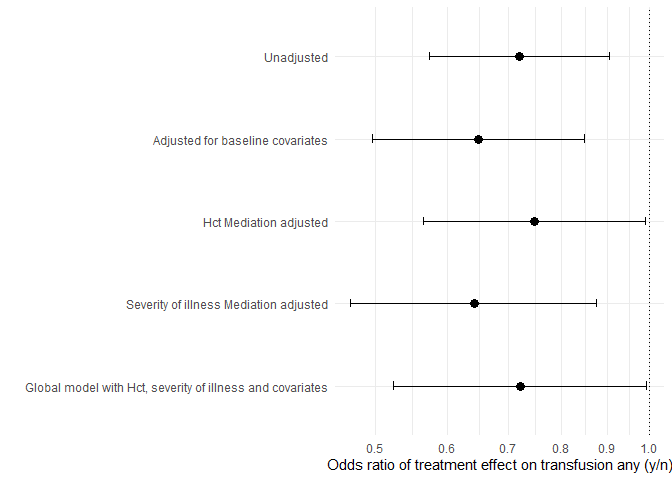
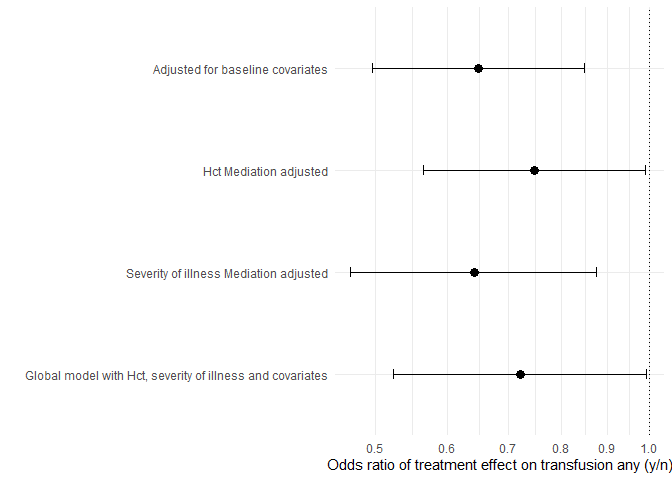
formatting

diff --git a/Analysis_medflex_for_Git2.md b/Analysis_medflex_for_Git2.md
@@ -37,10 +37,10 @@ adjustedfullmodel <- glm(rc_transfusion_titans ~ treatment_cat1+ hct_week1_peak+
 ```
 
 ``` r
-unadjustedmodel <- glm(rc_transfusion_titans ~ treatment_cat1,  family =  binomial("logit"), data = final_df) %>%
-  tbl_regression(exponentiate = TRUE,
-                 show_single_row="treatment_cat1",
-                 include = c("treatment_cat1"))
+#unadjustedmodel <- glm(rc_transfusion_titans ~ treatment_cat1,  family =  binomial("logit"), data = final_df) %>%
+#  tbl_regression(exponentiate = TRUE,
+#                 show_single_row="treatment_cat1",
+#                include = c("treatment_cat1"))
 ```
 
 ``` r
@@ -70,18 +70,16 @@ adjustedfullmodel <- glm(rc_transfusion_titans ~ treatment_cat1+ hct_week1_peak+
 ```
 
 ``` r
-models.a<-tbl_stack(list(unadjustedmodel, 
-                         adjusted_basedlinedmodel, 
+models.a<-tbl_stack(list( adjusted_basedlinedmodel, 
                          adjusted_hct_mediator_model,
                          adjusted_severity_of_illness_mediator_model,
                          adjustedfullmodel))
 
 models.a$table_body %>%
-  mutate(name = case_when(tbl_id1==1 ~ "Unadjusted", 
-                          tbl_id1==2 ~ "Adjusted for baseline covariates" , 
-                          tbl_id1==3 ~ "Hct Mediation adjusted",
-                          tbl_id1==4 ~ "Severity of illness Mediation adjusted",
-                          tbl_id1==5 ~ "Global model with Hct, severity of illness and covariates",) %>%
+  mutate(name = case_when(tbl_id1==1 ~ "Adjusted for baseline covariates" , 
+                          tbl_id1==2 ~ "Hct Mediation adjusted",
+                          tbl_id1==3 ~ "Severity of illness Mediation adjusted",
+                          tbl_id1==4 ~ "Global model with Hct, severity of illness and covariates",) %>%
            as.factor()) %>%
   ggplot(aes(y=fct_reorder(name, -tbl_id1), x=estimate)) +
   geom_point(size=3)+
@@ -284,7 +282,7 @@ impData <- medflex::neImpute(rc_transfusion_titans ~ factor(treatment_cat1) +
                     family = binomial("logit"), nMed = 4, data = final_df1)
 
 
-#head(impData)
+
 neMod.extra.cont <- medflex::neModel(rc_transfusion_titans ~ treatment_cat10+
                               treatment_cat11+
                     GA_weeks_and_days_integer +
